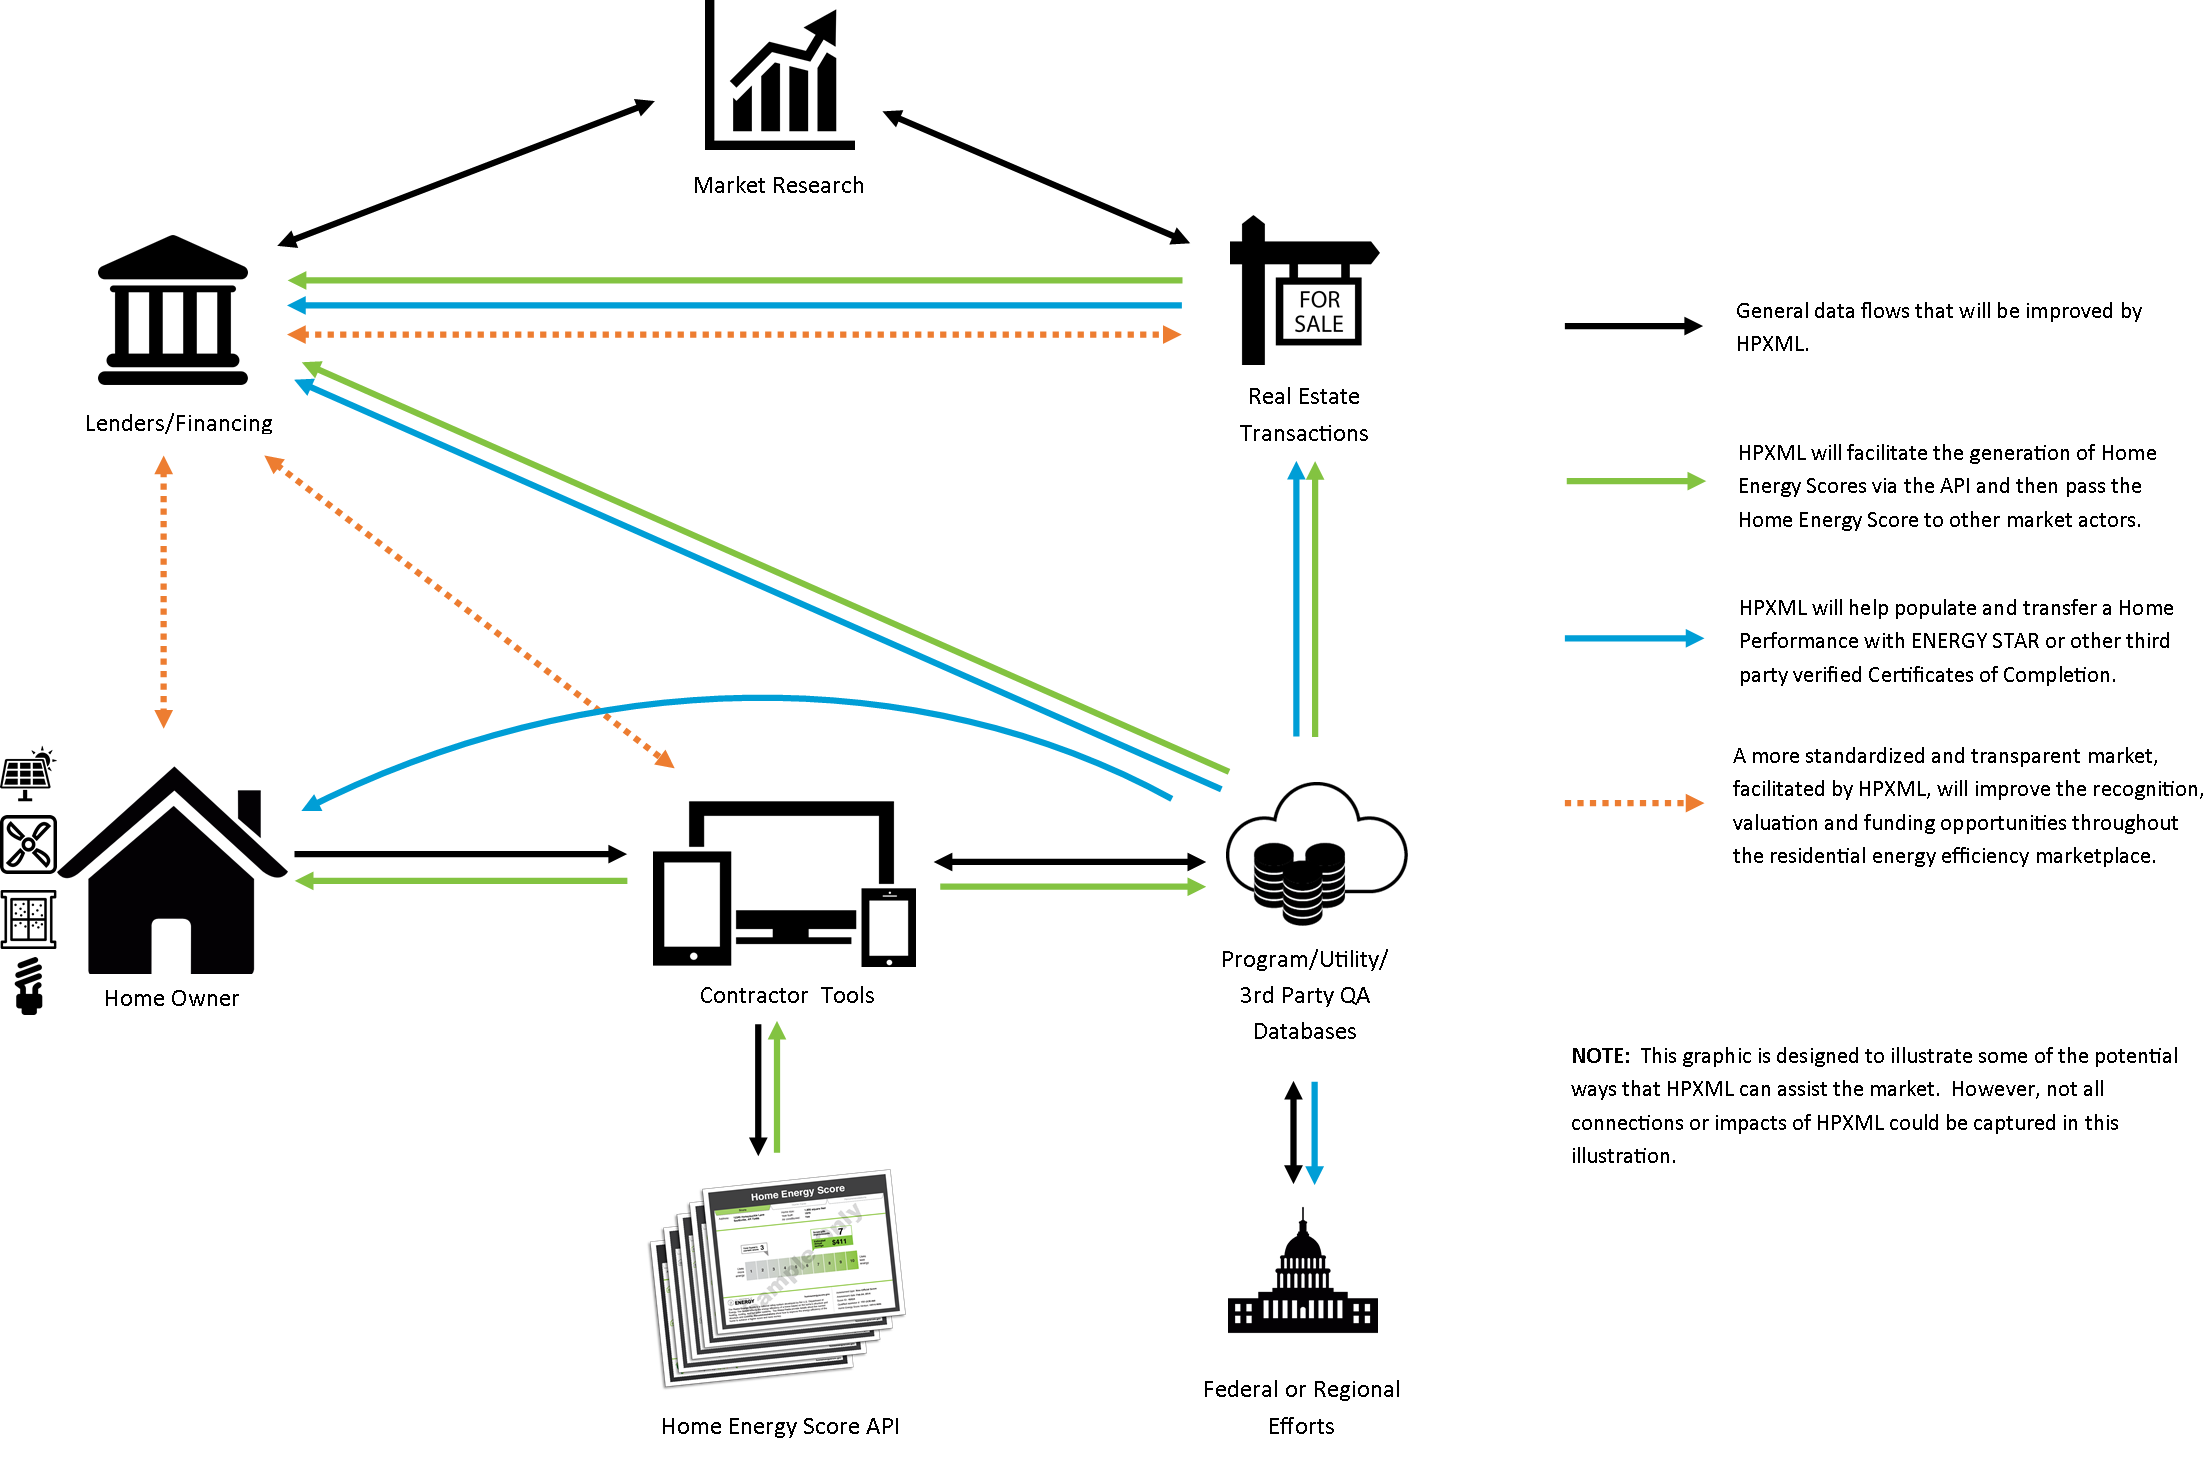
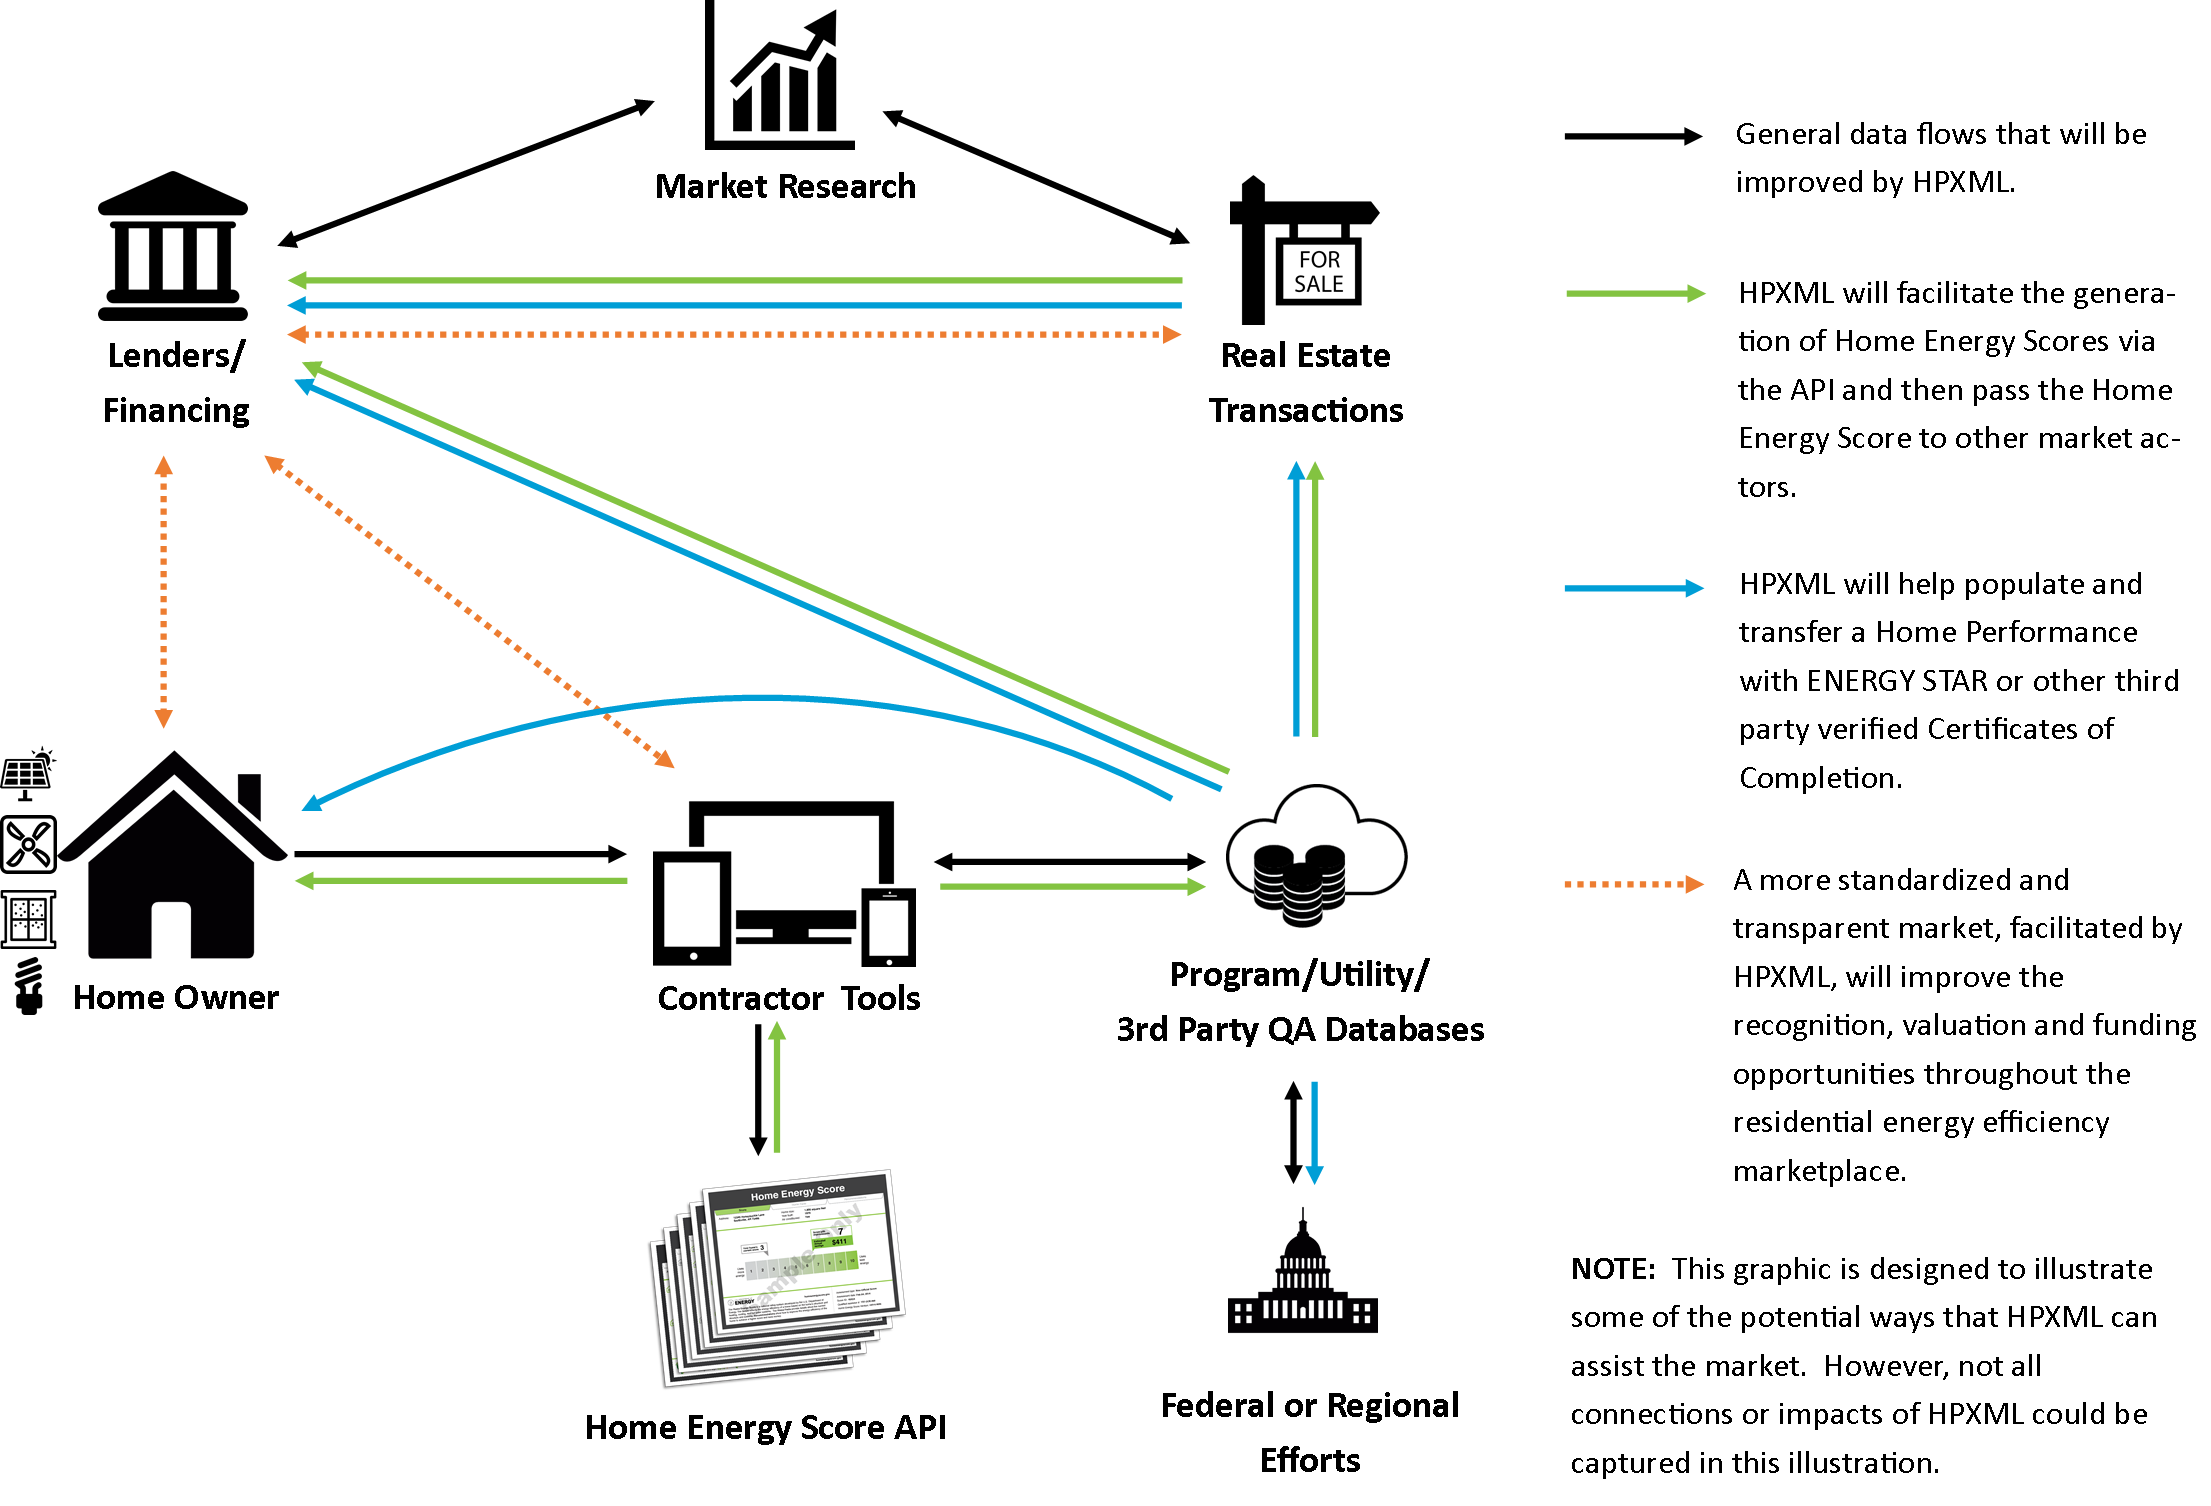
updating and adding new images

diff --git a/guide/source/program_administrator/testing_protocols.rst b/guide/source/program_administrator/testing_protocols.rst
@@ -87,7 +87,13 @@ your contractor and trade ally networks to achieve success. When rolling out a
 new software environment, especially if multiple software products are being
 introduced into the market at the same time, programs should coordinate software
 training along with the software vendors.  Each software vendor may have their
-own training practices, webinars, or other resources they prefer to use. 
+own training practices, webinars, or other resources they prefer to use.
+
+.. figure:: /images/hpxml_contractor_training_aps.jpg
+    :align: center
+    :figwidth: 5.5in
+
+    HPXML Contractor Training for Arizona Public Service (Source: EnergySavvy)
 
 The trainings should include a clear understanding of how to
 download and upload HPXML files.  This includes making transparent to all users
@@ -107,6 +113,6 @@ also increasing contractor satisfaction.
     together, you will want to provide ample opportunity for contractors to
     participate in training and complete all requirements before launch.  
 
-The `Home Energy Score website`_ has more information on training requirements.
+    The `Home Energy Score website`_ has more information on training requirements.
 
 .. _Home Energy Score website: http://energy.gov/eere/buildings/home-energy-score-information-interested-assessors

diff --git a/guide/source/program_administrator/opportunities_benefits.rst b/guide/source/program_administrator/opportunities_benefits.rst
@@ -31,16 +31,16 @@ opportunities in the valuation of energy efficiency and the availability of
 financing for home energy upgrades.
 
 .. figure:: /images/market_existing.png
+    :figwidth: 7.5in
+    :align: center
 
     Figure 3: Data flow of existing markets
 
 .. figure:: /images/market_connected.png
+    :figwidth: 7.5in
+    :align: center
 
     Figure 4: HPXML connected market data flow
-
-.. todo::
-
-    Fix text in these graphics.
 
 While these opportunities are expansive, it is important to identify priorities
 that are right for your program or jurisdiction and to stage adoption of these
